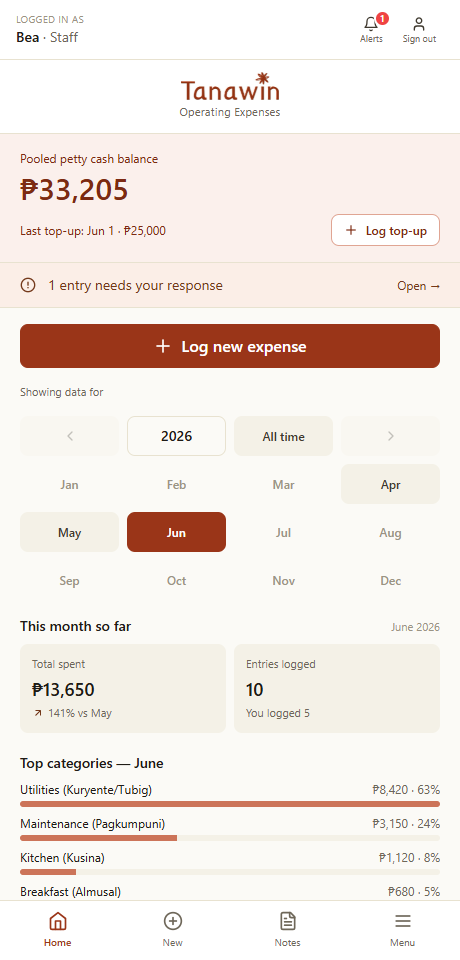
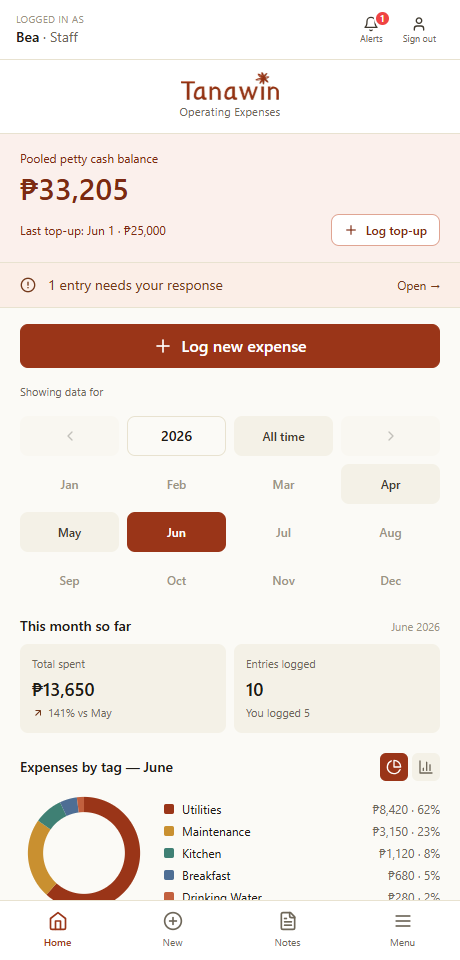
Refresh portfolio: staff-home chart + new view-only-guest shot
Recaptured staff home (now shows the expenses-by-tag chart) and added a
guest-feed screenshot (read-only Guest with the chart on the entries feed).
Rebuilt the demo PDF with a View-only guest page.

Changed region(s): [[0.0304, 0.7812, 0.9739, 0.9375]]

diff --git a/scripts/build-demo-pdf.py b/scripts/build-demo-pdf.py
@@ -31,6 +31,7 @@ PAGES = [
     ("07-receipt.png", "Receipt tools", "Replace a blurry photo, add a missing item, split or delete a line, or mark complete when part was a personal purchase."),
     ("08-staff-home.png", "Staff home", "Staff see the balance, their own spend, and anything the owner has asked them to follow up on."),
     ("09-log-expense.png", "Log an expense", "One receipt, many tagged items, with a smart category suggestion and a live check against the printed total."),
+    ("12-guest-feed.png", "View-only guest", "Accountants and family sign in as a read-only Guest — they browse the ledger, see spend by tag, and open full analytics, but can't edit or log anything."),
 ]
 
 